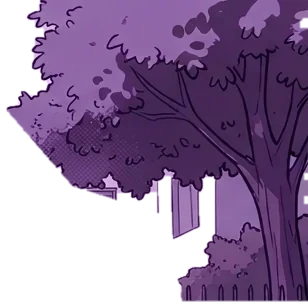
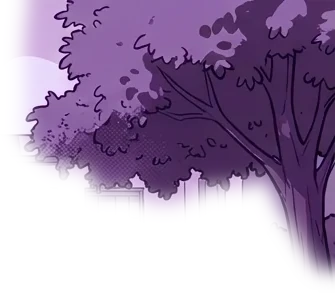
Folhagem sem recorte duro: sobreposição com borda suave; balanço e parallax mais visíveis
Claude-Session: https://claude.ai/code/session_01U48bm5Z4vR1opWpFs2CVT1

diff --git a/brasilis/index.html b/brasilis/index.html
@@ -24,7 +24,7 @@
   #bg .sway{ will-change:transform; animation:swayA 6.5s ease-in-out infinite; }
   #bg .sway.palm{ transform-origin:30% 100%; filter:url(#vento1); }
   #bg .sway.tree{ transform-origin:70% 100%; animation-duration:8s; animation-delay:-2.5s; filter:url(#vento2); }
-  @keyframes swayA{ 0%,100%{ transform:rotate(-.7deg) skewX(.9deg) } 50%{ transform:rotate(.8deg) skewX(-1.1deg) } }
+  @keyframes swayA{ 0%,100%{ transform:rotate(-.8deg) skewX(1.5deg) } 50%{ transform:rotate(.9deg) skewX(-1.7deg) } }
   @media (prefers-reduced-motion: reduce){ #bg .sway{ animation:none; filter:none !important; } }
   #ground{ left:-10%; right:-10%; bottom:0; height:62svh; background:linear-gradient(transparent, #a58bd0 70%, #8a6bb8); pointer-events:none; }
 
@@ -97,13 +97,13 @@
 <body>
 <main id="scene" aria-label="Entrada da escola Brasilis. Escolha um aluno.">
   <svg width="0" height="0" style="position:absolute" aria-hidden="true" focusable="false">
-    <filter id="vento1" x="-5%" y="-5%" width="110%" height="110%"><feTurbulence type="fractalNoise" baseFrequency="0.011 0.018" numOctaves="2" seed="3" result="n"><animate attributeName="baseFrequency" dur="9s" values="0.011 0.018;0.016 0.024;0.011 0.018" repeatCount="indefinite"/></feTurbulence><feDisplacementMap in="SourceGraphic" in2="n" scale="7" xChannelSelector="R" yChannelSelector="G"/></filter>
-    <filter id="vento2" x="-5%" y="-5%" width="110%" height="110%"><feTurbulence type="fractalNoise" baseFrequency="0.013 0.02" numOctaves="2" seed="9" result="n"><animate attributeName="baseFrequency" dur="11s" values="0.013 0.02;0.019 0.026;0.013 0.02" repeatCount="indefinite"/></feTurbulence><feDisplacementMap in="SourceGraphic" in2="n" scale="8" xChannelSelector="R" yChannelSelector="G"/></filter>
+    <filter id="vento1" x="0" y="0" width="100%" height="100%"><feTurbulence type="fractalNoise" baseFrequency="0.011 0.018" numOctaves="2" seed="3" result="n"><animate attributeName="baseFrequency" dur="9s" values="0.011 0.018;0.016 0.024;0.011 0.018" repeatCount="indefinite"/></feTurbulence><feDisplacementMap in="SourceGraphic" in2="n" scale="9" xChannelSelector="R" yChannelSelector="G"/></filter>
+    <filter id="vento2" x="0" y="0" width="100%" height="100%"><feTurbulence type="fractalNoise" baseFrequency="0.013 0.02" numOctaves="2" seed="9" result="n"><animate attributeName="baseFrequency" dur="11s" values="0.013 0.02;0.019 0.026;0.013 0.02" repeatCount="indefinite"/></feTurbulence><feDisplacementMap in="SourceGraphic" in2="n" scale="10" xChannelSelector="R" yChannelSelector="G"/></filter>
   </svg>
   <div id="bg" role="img" aria-label="Fachada da escola Brasilis">
-    <div class="layer bgl" data-depth="0.2"><img class="full" src="assets/cenario/camadas/fundo.webp" alt="" draggable="false"></div>
-    <div class="layer bgl" data-depth="0.3"><img class="sway palm" src="assets/cenario/camadas/palmeiras.webp" alt="" draggable="false" style="left:0%;top:17.188%;width:23.11%"></div>
-    <div class="layer bgl" data-depth="0.3"><img class="sway tree" src="assets/cenario/camadas/arvore.webp" alt="" draggable="false" style="left:77.616%;top:0%;width:22.384%"></div>
+    <div class="layer bgl" data-depth="0.2"><img class="full" src="assets/cenario/camadas/fundo.webp" alt="" draggable="false">
+      <img class="sway palm" src="assets/cenario/camadas/palmeiras.webp" alt="" draggable="false" style="left:0%;top:12.76%;width:23.401%">
+      <img class="sway tree" src="assets/cenario/camadas/arvore.webp" alt="" draggable="false" style="left:75.654%;top:0%;width:24.346%"></div>
     <div class="layer bgl" data-depth="0.4"><img src="assets/cenario/camadas/placa.webp" alt="" draggable="false" style="left:26.526%;top:1.953%;width:48.11%"></div>
     <div class="layer bgl" data-depth="0.7"><img src="assets/cenario/camadas/grade.webp" alt="" draggable="false" style="left:0%;top:56.38%;width:100%"></div>
   </div>
@@ -172,7 +172,7 @@
   function frame(t){
     if(!running){ return; }
     var idle=(t-lastInput>2500 && !gyro);
-    var sx=idle?Math.sin(t/2600)*.45:tx, sy=idle?Math.cos(t/3300)*.18:ty;
+    var sx=idle?Math.sin(t/2200)*.9:tx, sy=idle?Math.cos(t/3000)*.3:ty;
     cx+=(sx-cx)*.07; cy+=(sy-cy)*.07;
     var A=AMP();
     for(var i=0;i<items.length;i++){
